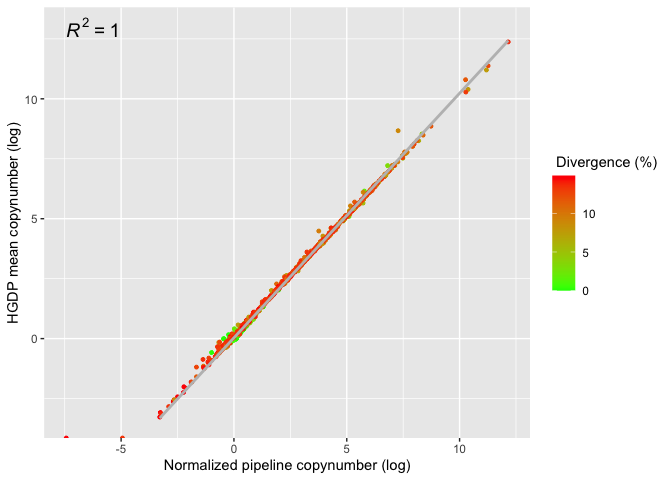
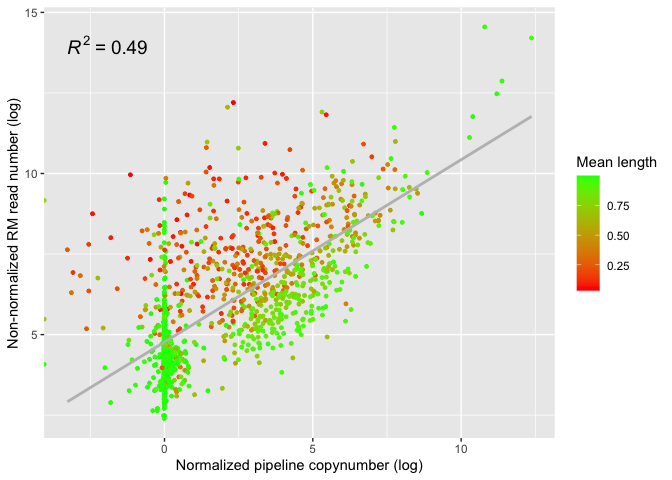
Script 11 and Py script
Mod script 11 (adjusted copynumber, fragment length and sequence length).

Fixed script "from_RM_to_copynumber" (with different calculations for the two strands)

diff --git a/ric_documentation/11_HGDP_T2T_control.md b/ric_documentation/11_HGDP_T2T_control.md
@@ -47,6 +47,16 @@ Explanation of the RepeatMasker output file:
   higher-scoring match whose domain partly (\<80%) includes the domain
   of this match.
 
+Note that the three column indicating the **position in repeat** are
+arranged differently for insertions in the two strands:
+
+- For `C` strand: `left`, `end`, `begin`
+- For `+` strand: `begin`, `end`, `left`
+
+For simplicity, we kept the order of the `+` strand for all the RM hits
+and we dealt with this difference in the next analysis calculating
+`fragment length` and `segment length` differently for the two strands.
+
 Command to remove multiple spaces from the RM output and make it
 readable in R:
 
@@ -68,37 +78,36 @@ library(tidyverse)
 ``` r
 library(ggpubr)
 
-(RM <- read_delim("/Users/rpianezza/TE/T2T/RM_complete/GCF_009914755.1_T2T-CHM13v2.0_genomic_mod.fna.out", delim = " ",skip = 3, col_names = c("SWscore", "perc_div", "perc_del", "perc_ins", "query_sequence", "position_in_query_begin", "position_in_query_end", "position_in_query_left",  "+/c", "matching_repeat", "repeat_class/family", "position_in_repeat_left", "position_in_repeat_begin", "position_in_repeat_end", "ID", "other_match")))
+(RM <- read_delim("/Users/rpianezza/TE/T2T/RM_complete/GCF_009914755.1_T2T-CHM13v2.0_genomic_mod.fna.out", delim = " ",skip = 3, col_names = c("SWscore", "perc_div", "perc_del", "perc_ins", "query_sequence", "position_in_query_begin", "position_in_query_end", "position_in_query_left",  "strand", "matching_repeat", "repeat_class/family", "position_in_repeat_begin", "position_in_repeat_end", "position_in_repeat_left", "ID", "other_match")))
 ```
 
     ## Rows: 8353919 Columns: 16
     ## ── Column specification ────────────────────────────────────────────────────────
     ## Delimiter: " "
-    ## chr (9): SWscore, query_sequence, position_in_query_left, +/c, matching_repe...
+    ## chr (9): SWscore, query_sequence, position_in_query_left, strand, matching_r...
     ## dbl (7): perc_div, perc_del, perc_ins, position_in_query_begin, position_in_...
     ## 
     ## ℹ Use `spec()` to retrieve the full column specification for this data.
     ## ℹ Specify the column types or set `show_col_types = FALSE` to quiet this message.
 
     ## # A tibble: 8,353,919 × 16
-    ##    SWscore perc_…¹ perc_…² perc_…³ query…⁴ posit…⁵ posit…⁶ posit…⁷ `+/c` match…⁸
-    ##    <chr>     <dbl>   <dbl>   <dbl> <chr>     <dbl>   <dbl> <chr>   <chr> <chr>  
-    ##  1 234         4.8     0       0   NC_060…    1885    1926 (24838… C     TAR1_te
-    ##  2 250         2.4     0       2.4 NC_060…    1897    1939 (24838… C     TAR1_te
-    ##  3 5109       11.7     1.1     0.8 NC_060…    2710    3803 (24838… C     TAR1_te
-    ##  4 1236       20.6     2.2     3.1 NC_060…    3484    3843 (24838… C     TAR1_te
-    ##  5 964        25.2     4.3     2.1 NC_060…    3542    3910 (24838… C     TAR1_te
-    ##  6 902        25.5     4.4     2.7 NC_060…    3602    3968 (24838… C     TAR1_te
-    ##  7 3879       13.6     5.3     2.2 NC_060…    3663    4398 (24838… C     TAR1_te
-    ##  8 990        26.2    12.4     1   NC_060…    4083    4533 (24838… C     LTR60B…
-    ##  9 552        18       5.7     0   NC_060…    4534    4655 (24838… C     LTR60_…
-    ## 10 1013       24.2     5       1.1 NC_060…    4718    5139 (24838… +     L1ME_O…
-    ## # … with 8,353,909 more rows, 6 more variables: `repeat_class/family` <chr>,
-    ## #   position_in_repeat_left <chr>, position_in_repeat_begin <dbl>,
-    ## #   position_in_repeat_end <chr>, ID <dbl>, other_match <chr>, and abbreviated
-    ## #   variable names ¹perc_div, ²perc_del, ³perc_ins, ⁴query_sequence,
-    ## #   ⁵position_in_query_begin, ⁶position_in_query_end, ⁷position_in_query_left,
-    ## #   ⁸matching_repeat
+    ##    SWscore perc_div perc_del perc_ins query_seq…¹ posit…² posit…³ posit…⁴ strand
+    ##    <chr>      <dbl>    <dbl>    <dbl> <chr>         <dbl>   <dbl> <chr>   <chr> 
+    ##  1 234          4.8      0        0   NC_060925.1    1885    1926 (24838… C     
+    ##  2 250          2.4      0        2.4 NC_060925.1    1897    1939 (24838… C     
+    ##  3 5109        11.7      1.1      0.8 NC_060925.1    2710    3803 (24838… C     
+    ##  4 1236        20.6      2.2      3.1 NC_060925.1    3484    3843 (24838… C     
+    ##  5 964         25.2      4.3      2.1 NC_060925.1    3542    3910 (24838… C     
+    ##  6 902         25.5      4.4      2.7 NC_060925.1    3602    3968 (24838… C     
+    ##  7 3879        13.6      5.3      2.2 NC_060925.1    3663    4398 (24838… C     
+    ##  8 990         26.2     12.4      1   NC_060925.1    4083    4533 (24838… C     
+    ##  9 552         18        5.7      0   NC_060925.1    4534    4655 (24838… C     
+    ## 10 1013        24.2      5        1.1 NC_060925.1    4718    5139 (24838… +     
+    ## # … with 8,353,909 more rows, 7 more variables: matching_repeat <chr>,
+    ## #   `repeat_class/family` <chr>, position_in_repeat_begin <chr>,
+    ## #   position_in_repeat_end <dbl>, position_in_repeat_left <chr>, ID <dbl>,
+    ## #   other_match <chr>, and abbreviated variable names ¹query_sequence,
+    ## #   ²position_in_query_begin, ³position_in_query_end, ⁴position_in_query_left
 
 Here I filter the RM output putting a threshold on the maximum
 **divergence** percentage (`15`) among the query and the reference, as
@@ -120,13 +129,14 @@ RM_cutoff <- filter(RM, perc_div < 15, position_in_query_end-position_in_query_b
 write_csv(RM_cutoff, "/Users/rpianezza/TE/T2T/RM_cutoff.csv")
 ```
 
-Here I read the output of the Python script.
+Here I read the output of the Python script, a dictionary with every
+`sequence` associated with its estimated normalized `copynumber`.
 
 ``` r
 RM_copynumbers <- read_csv("/Users/rpianezza/TE/T2T/RM_complete/copynumber_RM.csv", col_names = c("sequence", "copynumber"))
 ```
 
-    ## Rows: 1467 Columns: 2
+    ## Rows: 1468 Columns: 2
     ## ── Column specification ────────────────────────────────────────────────────────
     ## Delimiter: ","
     ## chr (1): sequence
@@ -154,10 +164,16 @@ The artificial reads are then processed into the pipeline to estimate
 copynumbers (**normalization**). Here I read the main output file and I
 create a comparison between the two methods copynumber estimates:
 RepeatMasker (`RM`) and the pipeline run on artificial short reads
-(`pipeline`). The color of the points depends on the mean
-`divergence percentage` of the RM hits on the respective reference
-sequence. We expect higly divergent sequences to be more prone to
-produce outliers across the two methods, thus less reliable.
+(`pipeline`). The color of the points depends on the `mean length` of
+the RM hits of a particular sequence calculated as follows:
+
+$$\sum_{n=1}^{n} fragment.length/(sequence.length*n)$$
+
+We expect highly fragmented sequences to be more prone to produce
+outliers across the two methods, thus less reliable. A `mean length`
+close to 1 means that the sequences in the genome are close to be
+complete, while a value close to 0 indicates a highly fragmented
+sequence.
 
 ``` r
 artificial <- read_delim("/Users/rpianezza/TE/T2T/T2T-artificial-reads/T2T_artificial_reads.mq10.mapstat", delim = "\t", skip = 8, col_names = c("type", "familyname", "length", "reads", "copynumber"))
@@ -177,31 +193,40 @@ art_subset <- select(artificial, familyname, copynumber) %>% arrange(familyname)
 
 RM_subset <- RM_copynumbers %>% mutate(sequence = str_replace(sequence, "_te", "")) %>% mutate(sequence = str_replace(sequence, "_krab", "")) %>% mutate(sequence = str_replace(sequence, "_scg", "")) %>% mutate(sequence = str_replace(sequence, "_scgx", "")) %>% rename(familyname = sequence)
 
-divergence <- group_by(RM_cutoff, matching_repeat) %>% summarise(mean_div = mean(perc_div)) %>% mutate(matching_repeat = str_replace(matching_repeat, "_te", "")) %>% mutate(matching_repeat = str_replace(matching_repeat, "_krab", "")) %>% mutate(matching_repeat = str_replace(matching_repeat, "_scg", "")) %>% mutate(matching_repeat = str_replace(matching_repeat, "_scgx", "")) %>% rename(familyname = matching_repeat)
-
-cn_comparison <- inner_join(art_subset, RM_subset, by = "familyname") %>% rename(pipeline_copynumber = copynumber.x) %>% rename(RM_copynumber = copynumber.y)
-
-(cn_comparison_final <- inner_join(cn_comparison, divergence, by = "familyname"))
+RM_mod <- RM_cutoff %>% type_convert() %>% mutate(fragment_len = if_else(strand=="+", abs(position_in_repeat_begin-position_in_repeat_end), abs(position_in_repeat_left-position_in_repeat_end))) %>% mutate(sequence_len = if_else(strand=="+", fragment_len+position_in_repeat_begin+position_in_repeat_left, fragment_len+position_in_repeat_left+position_in_repeat_begin)) %>% arrange(matching_repeat, strand)
 ```
 
-    ## # A tibble: 1,443 × 4
-    ##    familyname     pipeline_copynumber RM_copynumber mean_div
-    ##    <chr>                        <dbl>         <dbl>    <dbl>
-    ##  1 6kbHsap                    285.          130.        5.50
-    ##  2 a_AC067968.1_2               1.29          0.999     0.2 
-    ##  3 a_AC092835.1_5               1.17          0.999     0   
-    ##  4 a_CDK8_20                    1.99          4.93      5.17
-    ##  5 a_CHD3_3                     1.06          0.999     0   
-    ##  6 a_CLTC_6                     0.992         0.999     0   
-    ##  7 a_DCT_12                     0.994         1.00      0   
-    ##  8 a_DNAJA2_11                  0.993         0.999     0   
-    ##  9 a_E2F1_2                     0.993         0.999     0   
-    ## 10 a_EGR1_4                     1.24          0.999     0   
-    ## # … with 1,433 more rows
+    ## 
+    ## ── Column specification ────────────────────────────────────────────────────────
+    ## cols(
+    ##   SWscore = col_character(),
+    ##   query_sequence = col_character(),
+    ##   position_in_query_begin = col_double(),
+    ##   position_in_query_end = col_double(),
+    ##   position_in_query_left = col_double(),
+    ##   strand = col_character(),
+    ##   matching_repeat = col_character(),
+    ##   `repeat_class/family` = col_character(),
+    ##   position_in_repeat_begin = col_double(),
+    ##   position_in_repeat_end = col_double(),
+    ##   position_in_repeat_left = col_double(),
+    ##   other_match = col_character()
+    ## )
 
 ``` r
-ggplot(cn_comparison_final, aes(x=log(pipeline_copynumber), y=log(RM_copynumber), color=mean_div)) +
-  geom_point(size=1) + scale_color_gradient(low = "green", high = "red") + labs(color = "Divergence (%)") +
+divergence <- group_by(RM_mod, matching_repeat) %>% summarise(mean_div = mean(perc_div), mean_length = (sum(fragment_len))/(sequence_len*n())) %>% distinct() %>% mutate(matching_repeat = str_replace(matching_repeat, "_te", "")) %>% mutate(matching_repeat = str_replace(matching_repeat, "_krab", "")) %>% mutate(matching_repeat = str_replace(matching_repeat, "_scg", "")) %>% mutate(matching_repeat = str_replace(matching_repeat, "_scgx", "")) %>% rename(familyname = matching_repeat)
+```
+
+    ## `summarise()` has grouped output by 'matching_repeat'. You can override using
+    ## the `.groups` argument.
+
+``` r
+cn_comparison <- inner_join(art_subset, RM_subset, by = "familyname") %>% rename(pipeline_copynumber = copynumber.x) %>% rename(RM_copynumber = copynumber.y)
+
+cn_comparison_final <- inner_join(cn_comparison, divergence, by = "familyname")
+
+ggplot(cn_comparison_final, aes(x=log(pipeline_copynumber), y=log(RM_copynumber), color=mean_length)) +
+  geom_point(size=1) + scale_color_gradient(low = "red", high = "green") + labs(color = "Mean length") +
   geom_smooth(method="lm",color="grey", se=F) +
   ylab("Normalized RM copynumber (log)") + xlab("Normalized pipeline copynumber (log)") +
   stat_regline_equation(label.y = 13, aes(label = ..rr.label..), size=5)
@@ -213,7 +238,7 @@ ggplot(cn_comparison_final, aes(x=log(pipeline_copynumber), y=log(RM_copynumber)
 
     ## Warning: Removed 3 rows containing non-finite values (stat_regline_equation).
 
-![](11_HGDP_T2T_control_files/figure-gfm/unnamed-chunk-5-1.png)<!-- -->
+![](11_HGDP_T2T_control_files/figure-gfm/unnamed-chunk-6-1.png)<!-- -->
 
 Here I check if there is a correlation between the copynumbers estimated
 by the pipeline (normalized) and the number of hits of RM for each
@@ -230,8 +255,8 @@ reads_comparison <- inner_join(pipeline_reads, RM_reads, by = "familyname") %>% 
     ## Joining, by = "familyname"
 
 ``` r
-ggplot(reads_comparison, aes(x=log(pipeline_copynumber), y=log(RM_reads), color=mean_div)) +
-  geom_point(size=1) + scale_color_gradient(low = "green", high = "red") + labs(color = "Divergence (%)") +
+ggplot(reads_comparison, aes(x=log(pipeline_copynumber), y=log(RM_reads), color=mean_length)) +
+  geom_point(size=1) + scale_color_gradient(low = "red", high = "green") + labs(color = "Mean length") +
   geom_smooth(method="lm",color="grey", se=F) +
   ylab("Non-normalized RM read number (log)") + xlab("Normalized pipeline copynumber (log)") +
   stat_regline_equation(label.y = 14, aes(label = ..rr.label..), size=5)
@@ -243,7 +268,7 @@ ggplot(reads_comparison, aes(x=log(pipeline_copynumber), y=log(RM_reads), color=
 
     ## Warning: Removed 3 rows containing non-finite values (stat_regline_equation).
 
-![](11_HGDP_T2T_control_files/figure-gfm/unnamed-chunk-6-1.png)<!-- -->
+![](11_HGDP_T2T_control_files/figure-gfm/unnamed-chunk-7-1.png)<!-- -->
 
 Here I calculate the mean copynumber for each `familyname` among all the
 HGDP samples and I look for a correlation between these values and the
@@ -270,8 +295,8 @@ mean_cn <- group_by(HGDPcutoff, familyname) %>% summarise(min = min(copynumber),
 
 T2T_HGDP <- inner_join(mean_cn, art_subset, by="familyname") %>% rename(T2T = copynumber) %>% inner_join(divergence, by = "familyname")
 
-ggplot(T2T_HGDP, aes(x=log(mean), y=log(T2T), color=mean_div)) +
-  geom_point(size=1) + scale_color_gradient(low = "green", high = "red") + labs(color = " Divergence (%)") +
+ggplot(T2T_HGDP, aes(x=log(mean), y=log(T2T), color=mean_length)) +
+  geom_point(size=1) + scale_color_gradient(low = "red", high = "green") + labs(color = " Mean length") +
   geom_smooth(method="lm",color="grey")+
   ylab("HGDP mean copynumber (log)") + xlab("Normalized pipeline copynumber (log)") +
   stat_regline_equation(label.y = 13, aes(label = ..rr.label..), size=5)
@@ -283,4 +308,4 @@ ggplot(T2T_HGDP, aes(x=log(mean), y=log(T2T), color=mean_div)) +
 
     ## Warning: Removed 2 rows containing non-finite values (stat_regline_equation).
 
-![](11_HGDP_T2T_control_files/figure-gfm/unnamed-chunk-7-1.png)<!-- -->
+![](11_HGDP_T2T_control_files/figure-gfm/unnamed-chunk-8-1.png)<!-- -->
